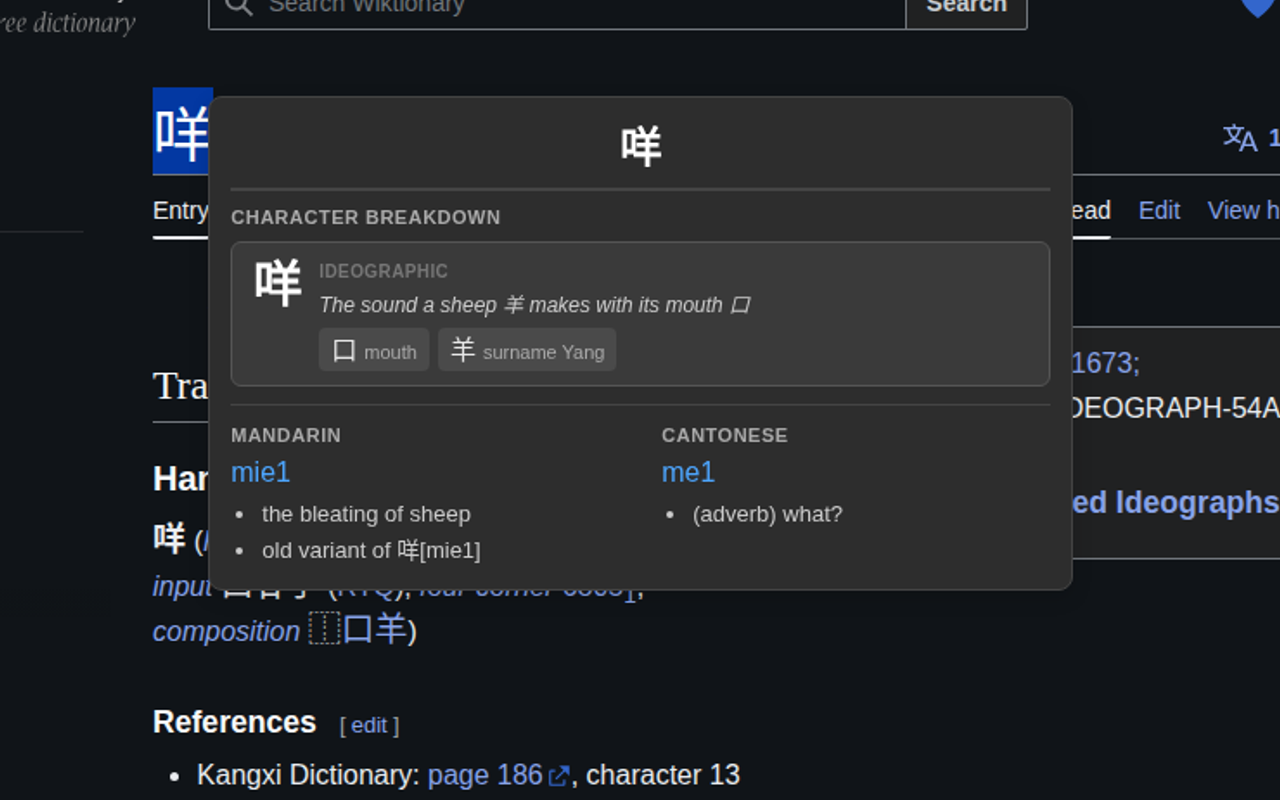
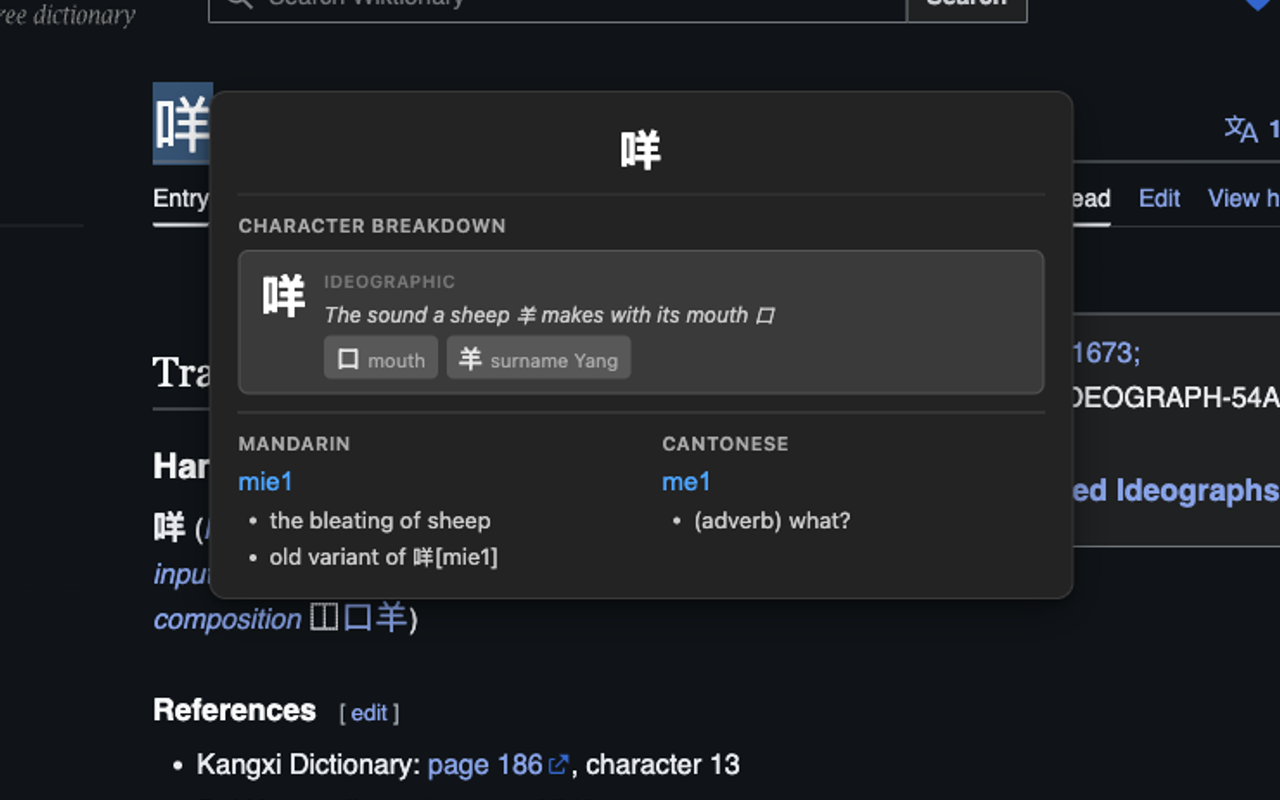
feat(popup, stats): Improve UI polish and fix etymology overflow bug
- Fix etymology characters wrapping (nowrap → wrap) with min-width to prevent overflow with 3+ characters
- Refine popup with softer layered shadow, subtle border, and larger word display
- Add header icon and empty state character to stats page
- Improve stat item cards with hover lift effect, cursor pointer, and tabular number rendering
- Update dark mode colors for better contrast across popup and stats

diff --git a/src/stats/stats.css b/src/stats/stats.css
@@ -25,16 +25,24 @@ header {
   text-align: center;
 }
 
+.header-icon {
+  font-size: 40px;
+  line-height: 1;
+  margin-bottom: 12px;
+  opacity: 0.85;
+}
+
 h1 {
-  font-size: 28px;
-  font-weight: 600;
+  font-size: 26px;
+  font-weight: 700;
   color: #1a1a1a;
-  margin-bottom: 8px;
+  margin-bottom: 6px;
+  letter-spacing: -0.01em;
 }
 
 .subtitle {
-  color: #666;
-  font-size: 14px;
+  color: #888;
+  font-size: 13px;
 }
 
 .controls {
@@ -42,10 +50,11 @@ h1 {
   justify-content: space-between;
   align-items: center;
   margin-bottom: 24px;
-  padding: 16px;
+  padding: 12px 16px;
   background: white;
   border-radius: 8px;
-  box-shadow: 0 2px 4px rgba(0, 0, 0, 0.05);
+  box-shadow: 0 1px 3px rgba(0, 0, 0, 0.06);
+  border: 1px solid rgba(0, 0, 0, 0.05);
 }
 
 .btn {
@@ -80,7 +89,8 @@ h1 {
 .stats-container {
   background: white;
   border-radius: 8px;
-  box-shadow: 0 2px 4px rgba(0, 0, 0, 0.05);
+  box-shadow: 0 1px 3px rgba(0, 0, 0, 0.06);
+  border: 1px solid rgba(0, 0, 0, 0.05);
   padding: 24px;
   min-height: 200px;
 }
@@ -98,8 +108,15 @@ h1 {
   color: #999;
 }
 
+.empty-state-icon {
+  font-size: 48px;
+  line-height: 1;
+  margin-bottom: 16px;
+  opacity: 0.3;
+}
+
 .empty-state p {
-  font-size: 16px;
+  font-size: 15px;
   line-height: 1.8;
 }
 
@@ -111,10 +128,13 @@ h1 {
 
 .stat-item {
   background: #f9f9f9;
-  border-radius: 6px;
-  border-left: 4px solid #0066cc;
-  transition: all 0.2s;
+  border-radius: 8px;
+  border-left: 3px solid #0066cc;
+  border: 1px solid rgba(0, 0, 0, 0.06);
+  border-left: 3px solid #0066cc;
+  transition: box-shadow 0.15s, background 0.15s;
   overflow: hidden;
+  cursor: pointer;
 }
 
 .stat-item.expanded {
@@ -128,19 +148,24 @@ h1 {
   padding: 16px;
 }
 
+.stat-item:hover {
+  box-shadow: 0 2px 8px rgba(0, 0, 0, 0.08);
+}
+
 .stat-item:hover .stat-header {
-  background: #f0f0f0;
+  background: #f3f3f3;
 }
 
 .stat-item.expanded .stat-header {
-  background: #e8e8e8;
+  background: #efefef;
 }
 
 .stat-word {
-  font-size: 20px;
+  font-size: 22px;
   font-weight: 500;
   color: #1a1a1a;
   flex: 1;
+  letter-spacing: 0.02em;
 }
 
 .stat-details {
@@ -151,9 +176,10 @@ h1 {
 }
 
 .stat-count {
-  font-size: 24px;
-  font-weight: 600;
+  font-size: 22px;
+  font-weight: 700;
   color: #0066cc;
+  font-variant-numeric: tabular-nums;
 }
 
 .stat-label {
@@ -164,10 +190,14 @@ h1 {
 }
 
 .stat-expand-icon {
-  font-size: 12px;
-  color: #666;
+  font-size: 10px;
+  color: #aaa;
   margin-left: 8px;
-  transition: transform 0.2s;
+  transition: transform 0.2s, color 0.15s;
+}
+
+.stat-item.expanded .stat-expand-icon {
+  color: #666;
 }
 
 .stat-expanded {
@@ -287,9 +317,9 @@ h1 {
   flex: 1;
   min-width: 200px;
   padding: 8px 12px;
-  background: #f0f0f0;
+  background: #f8f8f8;
   border-radius: 6px;
-  border: 1px solid #e0e0e0;
+  border: 1px solid #e8e8e8;
 }
 
 .popup-etymology-char {
@@ -334,7 +364,7 @@ h1 {
   align-items: baseline;
   gap: 4px;
   padding: 2px 7px;
-  background: #e2e2e2;
+  background: #e4e4e4;
   border-radius: 4px;
   white-space: nowrap;
 }
@@ -369,7 +399,7 @@ h1 {
 /* Dark mode support */
 @media (prefers-color-scheme: dark) {
   body {
-    background: #1a1a1a;
+    background: #141414;
     color: #e0e0e0;
   }
 
@@ -378,13 +408,14 @@ h1 {
   }
 
   .subtitle {
-    color: #aaa;
+    color: #888;
   }
 
   .controls,
   .stats-container {
-    background: #2d2d2d;
-    box-shadow: 0 2px 4px rgba(0, 0, 0, 0.3);
+    background: #222;
+    box-shadow: none;
+    border-color: rgba(255, 255, 255, 0.06);
   }
 
   .word-count {
@@ -392,8 +423,14 @@ h1 {
   }
 
   .stat-item {
-    background: #333;
+    background: #2a2a2a;
     border-left-color: #4da6ff;
+    border-color: rgba(255, 255, 255, 0.07);
+    border-left-color: #4da6ff;
+  }
+
+  .stat-item:hover {
+    box-shadow: 0 2px 8px rgba(0, 0, 0, 0.3);
   }
 
   .stat-item.expanded {
@@ -401,16 +438,16 @@ h1 {
   }
 
   .stat-item:hover .stat-header {
-    background: #3a3a3a;
+    background: #333;
   }
 
   .stat-item.expanded .stat-header {
-    background: #404040;
+    background: #363636;
   }
 
   .stat-expanded {
-    background: #2a2a2a;
-    border-top-color: #444;
+    background: #222;
+    border-top-color: #3a3a3a;
   }
 
   .definition-word {
@@ -477,7 +514,7 @@ h1 {
   }
 
   .popup-etymology-component {
-    background: #4a4a4a;
+    background: #585858;
   }
 
   .popup-etymology-component-glyph {

diff --git a/src/popup/popup.css b/src/popup/popup.css
@@ -2,10 +2,10 @@
   position: fixed;
   z-index: 999999;
   background: #ffffff;
-  border: 1px solid #e0e0e0;
-  border-radius: 8px;
-  box-shadow: 0 4px 12px rgba(0, 0, 0, 0.15);
-  padding: 12px;
+  border: 1px solid rgba(0, 0, 0, 0.08);
+  border-radius: 10px;
+  box-shadow: 0 2px 6px rgba(0, 0, 0, 0.06), 0 8px 24px rgba(0, 0, 0, 0.10);
+  padding: 14px 16px;
   min-width: 500px;
   max-width: 1200px;
   width: auto;
@@ -34,15 +34,16 @@
 }
 
 .popup-word {
-  font-size: 24px;
+  font-size: 26px;
   font-weight: bold;
   color: #1a1a1a;
-  margin-bottom: 8px;
-  padding-bottom: 6px;
-  border-bottom: 2px solid #e0e0e0;
+  margin-bottom: 10px;
+  padding-bottom: 8px;
+  border-bottom: 1px solid #e8e8e8;
   text-align: center;
   word-break: break-word;
   overflow-wrap: break-word;
+  letter-spacing: 0.02em;
 }
 
 .popup-section {
@@ -97,7 +98,7 @@
 
 .popup-pinyin,
 .popup-jyutping {
-  font-size: 16px;
+  font-size: 15px;
   color: #0066cc;
   font-weight: 500;
   margin-bottom: 2px;
@@ -149,7 +150,7 @@
 
 .popup-etymology-characters {
   display: flex;
-  flex-wrap: nowrap;
+  flex-wrap: wrap;
   gap: 10px;
 }
 
@@ -158,6 +159,7 @@
   align-items: flex-start;
   gap: 10px;
   flex: 1;
+  min-width: 180px;
   padding: 8px 12px;
   background: #f8f8f8;
   border-radius: 6px;
@@ -206,7 +208,7 @@
   align-items: baseline;
   gap: 4px;
   padding: 2px 7px;
-  background: #efefef;
+  background: #e4e4e4;
   border-radius: 4px;
   white-space: nowrap;
 }
@@ -240,14 +242,15 @@
 
 @media (prefers-color-scheme: dark) {
   .chinese-hover-popup {
-    background: #2d2d2d;
-    border-color: #444;
+    background: #232323;
+    border-color: rgba(255, 255, 255, 0.10);
+    box-shadow: 0 2px 6px rgba(0, 0, 0, 0.3), 0 8px 24px rgba(0, 0, 0, 0.4);
     color: #e0e0e0;
   }
 
   .popup-word {
     color: #ffffff;
-    border-bottom-color: #444;
+    border-bottom-color: #383838;
   }
 
   .popup-label {
@@ -297,7 +300,7 @@
   }
 
   .popup-etymology-component {
-    background: #4a4a4a;
+    background: #585858;
   }
 
   .popup-etymology-component-glyph {

diff --git a/src/stats/stats.html b/src/stats/stats.html
@@ -9,8 +9,9 @@
 <body>
   <div class="container">
     <header>
-      <h1>Chinese Word Statistics</h1>
-      <p class="subtitle">Track your most frequently hovered Chinese words</p>
+      <div class="header-icon">漢</div>
+      <h1>Word Statistics</h1>
+      <p class="subtitle">Your most frequently hovered Chinese words</p>
     </header>
 
     <div class="controls">
@@ -21,7 +22,8 @@
     <div class="stats-container">
       <div id="loading" class="loading">Loading statistics...</div>
       <div id="empty-state" class="empty-state" style="display: none;">
-        <p>No statistics yet. Start hovering over Chinese words on web pages to track them!</p>
+        <div class="empty-state-icon">字</div>
+        <p>No statistics yet.<br>Start hovering over Chinese words on web pages to track them.</p>
       </div>
       <div id="stats-list" class="stats-list" style="display: none;"></div>
     </div>
